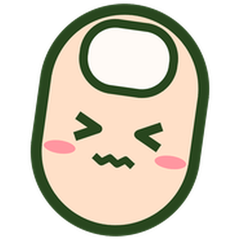
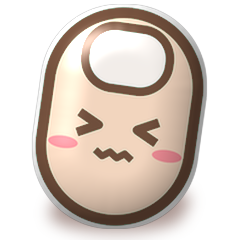
2026.11.11 3D 젤리 디자인 (키캡·팻핑이·테마·앱 화면)
Claude-Session: https://claude.ai/code/session_01GvSCgEXELCVfxACkb9NKF6

diff --git a/Shared/KBTheme.swift b/Shared/KBTheme.swift
@@ -26,6 +26,7 @@ struct KBTheme {
     var short: String? = nil          // 테마 메뉴에 보일 짧은 이름
     var spaceIcon: String? = nil      // 스페이스바 팻핑이 (밤 모자 등)
     var sprinkle: String? = nil       // 키 모서리 곳곳의 작은 잎 (그림 이름 앞부분)
+    var jelly: Bool = true            // 3D 젤리 키캡 (위가 밝은 윗면 + 두께 + 반짝임)
 
     var menuName: String { short ?? name }
 
@@ -36,74 +37,75 @@ struct KBTheme {
         UIColor { $0.userInterfaceStyle == .dark ? dark : light }
     }
 
-    /// 기본 테마는 폰의 다크모드를 따라감
+    /// 1. 크림 젤리 (기본) — 말랑한 크림색 키캡, 복숭아 포인트. 폰이 다크모드면 그레이 젤리
     static let standard = KBTheme(
-        id: "default", name: "기본",
-        bg: dyn(c(209, 213, 219), UIColor(white: 0.12, alpha: 1)),
-        key: dyn(.white, UIColor(white: 0.42, alpha: 1)),
-        special: dyn(c(171, 178, 189), UIColor(white: 0.27, alpha: 1)),
-        pressKey: dyn(c(171, 178, 189), UIColor(white: 0.27, alpha: 1)),
-        pressSpecial: dyn(.white, UIColor(white: 0.42, alpha: 1)),
-        text: .label, specialText: .label,
-        shadow: true)
+        id: "default", name: "크림 젤리",
+        bg: dyn(c(246, 232, 218), c(26, 26, 30)),
+        key: dyn(c(255, 250, 242), c(92, 92, 100)),
+        special: dyn(c(255, 204, 182), c(62, 62, 70)),
+        pressKey: dyn(c(244, 234, 220), c(72, 72, 80)),
+        pressSpecial: dyn(c(246, 184, 160), c(84, 84, 92)),
+        text: dyn(c(112, 78, 60), .white), specialText: dyn(c(156, 72, 50), .white),
+        side: dyn(c(226, 202, 180), c(52, 52, 58)), sideSpecial: dyn(c(228, 152, 124), c(36, 36, 42)),
+        accent: c(255, 138, 108), depth: 4, radius: 10)
 
     static let all: [KBTheme] = [
         standard,
-        KBTheme(id: "oled", name: "OLED 매트 블랙",
-                bg: .black, key: c(26, 26, 28), special: c(14, 14, 16),
-                pressKey: c(52, 52, 56), pressSpecial: c(40, 40, 44),
-                text: c(214, 214, 210), specialText: c(150, 150, 146),
-                rim: c(38, 38, 42), radius: 7, short: "OLED 블랙"),
-        KBTheme(id: "mint", name: "레트로 민트 & 크림",
-                bg: c(38, 92, 88), key: c(244, 238, 222), special: c(120, 196, 184),
-                pressKey: c(226, 218, 198), pressSpecial: c(104, 180, 168),
-                text: c(40, 64, 60), specialText: c(24, 60, 56),
-                side: c(190, 180, 156), sideSpecial: c(76, 150, 138), accent: c(238, 98, 74),
-                depth: 5, radius: 5, short: "민트 & 크림"),
-        KBTheme(id: "navy", name: "레트로 네이비 & 오렌지",
-                bg: c(28, 38, 64), key: c(236, 232, 222), special: c(64, 82, 124),
-                pressKey: c(216, 210, 196), pressSpecial: c(54, 70, 108),
-                text: c(30, 40, 66), specialText: c(236, 232, 222),
-                side: c(178, 172, 158), sideSpecial: c(40, 54, 90), accent: c(240, 128, 40),
-                depth: 5, radius: 5, short: "네이비 & 오렌지"),
-        KBTheme(id: "lime", name: "레트로 연두 & 그레이",
-                bg: c(70, 76, 72), key: c(238, 240, 232), special: c(170, 214, 96),
-                pressKey: c(220, 224, 212), pressSpecial: c(152, 196, 80),
-                text: c(48, 58, 44), specialText: c(40, 70, 30),
-                side: c(182, 186, 174), sideSpecial: c(120, 166, 60), accent: c(40, 70, 30),
-                depth: 5, radius: 5, short: "연두 & 그레이"),
-        KBTheme(id: "lavender", name: "레트로 파스텔 라벤더",
-                bg: c(186, 176, 214), key: c(250, 246, 252), special: c(232, 196, 214),
-                pressKey: c(232, 226, 238), pressSpecial: c(216, 178, 198),
-                text: c(84, 72, 110), specialText: c(110, 60, 88),
-                side: c(206, 196, 222), sideSpecial: c(206, 160, 184), accent: c(150, 120, 200),
-                depth: 5, radius: 5, short: "파스텔 라벤더"),
+        KBTheme(id: "oled", name: "블랙 젤리",
+                bg: .black, key: c(40, 40, 46), special: c(26, 26, 30),
+                pressKey: c(62, 62, 68), pressSpecial: c(46, 46, 52),
+                text: c(226, 226, 222), specialText: c(160, 160, 156),
+                side: c(18, 18, 22), sideSpecial: c(10, 10, 12), depth: 4, radius: 10),
+        KBTheme(id: "mint", name: "민트 소다",
+                bg: c(150, 226, 212), key: c(238, 252, 248), special: c(96, 206, 186),
+                pressKey: c(214, 242, 236), pressSpecial: c(80, 190, 170),
+                text: c(30, 96, 86), specialText: .white,
+                side: c(150, 208, 196), sideSpecial: c(46, 150, 132), accent: c(40, 168, 148),
+                depth: 4, radius: 10),
+        KBTheme(id: "peach", name: "피치 코랄",
+                bg: c(255, 214, 200), key: c(255, 245, 239), special: c(255, 150, 128),
+                pressKey: c(252, 226, 216), pressSpecial: c(240, 130, 110),
+                text: c(186, 80, 64), specialText: .white,
+                side: c(236, 182, 166), sideSpecial: c(214, 96, 80), accent: c(246, 104, 84),
+                depth: 4, radius: 10),
+        KBTheme(id: "lime", name: "라임 젤리",
+                bg: c(214, 236, 190), key: c(249, 252, 241), special: c(176, 220, 110),
+                pressKey: c(232, 242, 218), pressSpecial: c(156, 204, 90),
+                text: c(60, 90, 40), specialText: c(40, 70, 24),
+                side: c(196, 214, 168), sideSpecial: c(116, 166, 56), accent: c(110, 172, 52),
+                depth: 4, radius: 10),
+        KBTheme(id: "lavender", name: "라벤더 젤리",
+                bg: c(222, 212, 246), key: c(252, 248, 255), special: c(184, 160, 240),
+                pressKey: c(238, 230, 252), pressSpecial: c(168, 142, 228),
+                text: c(96, 72, 156), specialText: .white,
+                side: c(204, 190, 236), sideSpecial: c(128, 100, 204), accent: c(150, 112, 232),
+                depth: 4, radius: 10),
         KBTheme(id: "coral", name: "가을 코랄",
                 bg: c(250, 160, 130), key: c(255, 251, 247), special: c(238, 104, 80),
                 pressKey: c(255, 234, 224), pressSpecial: c(214, 88, 66),
                 text: c(196, 64, 52), specialText: .white,
-                accent: c(218, 52, 52), radius: 11, shadow: true,
+                accent: c(218, 52, 52), depth: 4, radius: 11,
                 bgImage: "bg_coral", enterIcon: "enter_chestnut", sticker: "sticker_chestnut",
                 gloss: true, shadowColor: c(200, 80, 60), sprinkle: "sprinkle_maple_"),
         KBTheme(id: "yellow", name: "가을 옐로우",
                 bg: c(252, 204, 80), key: c(255, 253, 244), special: c(246, 166, 40),
                 pressKey: c(255, 240, 200), pressSpecial: c(226, 146, 30),
                 text: c(170, 100, 20), specialText: .white,
-                accent: c(232, 92, 40), radius: 11, shadow: true,
+                accent: c(232, 92, 40), depth: 4, radius: 11,
                 bgImage: "bg_yellow", enterIcon: "enter_chestnut", sticker: "sticker_chestnut",
                 gloss: true, shadowColor: c(200, 140, 30), sprinkle: "sprinkle_ginkgo_"),
         KBTheme(id: "winter", name: "겨울 눈사람",
                 bg: c(170, 200, 240), key: c(252, 254, 255), special: c(196, 218, 248),
                 pressKey: c(226, 238, 252), pressSpecial: c(176, 202, 240),
                 text: c(70, 110, 180), specialText: c(50, 90, 160),
-                accent: c(120, 160, 230), radius: 12, shadow: true,
+                accent: c(120, 160, 230), depth: 4, radius: 12,
                 bgImage: "bg_winter", enterIcon: "enter_snowman", sticker: "sticker_snow",
                 gloss: true, shadowColor: c(100, 140, 200)),
         KBTheme(id: "red", name: "겨울 레드",
                 bg: c(118, 14, 24), key: c(255, 250, 242), special: c(214, 52, 58),
                 pressKey: c(240, 226, 214), pressSpecial: c(190, 40, 48),
                 text: c(30, 112, 64), specialText: c(255, 246, 236),
-                accent: c(34, 112, 66), radius: 12, shadow: true,
+                accent: c(34, 112, 66), depth: 4, radius: 12,
                 bgImage: "bg_red", enterIcon: "enter_snowman_red", sticker: "sticker_holly",
                 gloss: true, shadowColor: c(40, 0, 0)),
     ]

diff --git a/Keyboard/KeyboardView.swift b/Keyboard/KeyboardView.swift
@@ -8,6 +8,10 @@ final class KeyCap: UIView {
     let hint = UILabel()
     let icon = UIImageView()
     let gloss = UIView()
+    /// 젤리 윗면 그라데이션 (위가 밝게)
+    private let grad = CAGradientLayer()
+    /// 젤리 반짝임 (위에서 아래로 사라짐)
+    private let glossGrad = CAGradientLayer()
     /// 계절 스티커 (키 모서리에 살짝 걸침, 누르는 영역과 무관)
     let sticker = UIImageView()
     var stickerPos: CGPoint? = nil { didSet { setNeedsLayout() } }
@@ -32,6 +36,11 @@ final class KeyCap: UIView {
         face.layer.shadowOffset = CGSize(width: 0, height: 1)
         face.layer.shadowRadius = 0
         addSubview(face)
+        grad.startPoint = CGPoint(x: 0.5, y: 0)
+        grad.endPoint = CGPoint(x: 0.5, y: 1)
+        face.layer.insertSublayer(grad, at: 0)
+        glossGrad.startPoint = CGPoint(x: 0.5, y: 0)
+        glossGrad.endPoint = CGPoint(x: 0.5, y: 1)
         gloss.isUserInteractionEnabled = false
         gloss.backgroundColor = UIColor(white: 1, alpha: 0.35)
         gloss.isHidden = true
@@ -58,11 +67,24 @@ final class KeyCap: UIView {
 
     static let patPad: CGFloat = 8
 
+    static func mix(_ a: UIColor, _ b: UIColor, _ f: CGFloat) -> UIColor {
+        var r1: CGFloat = 0, g1: CGFloat = 0, b1: CGFloat = 0, a1: CGFloat = 0
+        var r2: CGFloat = 0, g2: CGFloat = 0, b2: CGFloat = 0, a2: CGFloat = 0
+        a.getRed(&r1, green: &g1, blue: &b1, alpha: &a1)
+        b.getRed(&r2, green: &g2, blue: &b2, alpha: &a2)
+        return UIColor(red: r1 + (r2 - r1) * f, green: g1 + (g2 - g1) * f, blue: b1 + (b2 - b1) * f, alpha: 1)
+    }
+
     static func image(_ name: String) -> UIImage? {
         UIImage(named: name, in: Bundle(for: KeyCap.self), compatibleWith: nil)
     }
 
     required init?(coder: NSCoder) { fatalError("init(coder:) has not been implemented") }
+
+    override func traitCollectionDidChange(_ previous: UITraitCollection?) {
+        super.traitCollectionDidChange(previous)
+        refreshColor()
+    }
 
     override func layoutSubviews() {
         super.layoutSubviews()
@@ -70,18 +92,31 @@ final class KeyCap: UIView {
         let d = theme.depth
         if d > 0 {
             f.size.height -= d
-            if isDown { f.origin.y += d * 0.6 }
+            if isDown { f.origin.y += d * (theme.jelly ? 0.75 : 0.6) }
         }
         face.frame = f
         face.layer.cornerRadius = theme.radius
         layer.cornerRadius = theme.radius
+        CATransaction.begin(); CATransaction.setDisableActions(true)
+        grad.frame = face.bounds
+        grad.cornerRadius = theme.radius
+        CATransaction.commit()
+        if theme.jelly {
+            layer.shadowPath = UIBezierPath(roundedRect: bounds.offsetBy(dx: 0, dy: 1.6).insetBy(dx: 0.5, dy: 0), cornerRadius: theme.radius).cgPath
+        }
         label.frame = face.bounds.insetBy(dx: 2, dy: 0)
         hint.frame = CGRect(x: 5, y: 2, width: 20, height: 13)
         let s = face.bounds.height * iconScale
         let ix = iconRight ? face.bounds.maxX - KeyCap.patPad - s : face.bounds.midX - s / 2
         icon.frame = CGRect(x: ix, y: face.bounds.midY - s / 2, width: s, height: s)
         let fb = face.bounds
-        gloss.frame = CGRect(x: fb.width * 0.12, y: fb.height * 0.08, width: fb.width * 0.76, height: fb.height * 0.22)
+        gloss.frame = theme.jelly
+            ? CGRect(x: fb.width * 0.12, y: fb.height * 0.06, width: fb.width * 0.76, height: fb.height * 0.28)
+            : CGRect(x: fb.width * 0.12, y: fb.height * 0.08, width: fb.width * 0.76, height: fb.height * 0.22)
+        CATransaction.begin(); CATransaction.setDisableActions(true)
+        glossGrad.frame = gloss.bounds
+        glossGrad.cornerRadius = min(theme.radius * 0.6, gloss.bounds.height / 2)
+        CATransaction.commit()
         gloss.layer.cornerRadius = min(theme.radius * 0.7, gloss.frame.height / 2)
         if let p = stickerPos {
             let ss: CGFloat = 15
@@ -113,7 +148,31 @@ final class KeyCap: UIView {
         face.layer.shadowColor = (t.shadowColor ?? .black).cgColor
         face.layer.shadowRadius = t.shadowColor == nil ? 0 : 2.5
         face.layer.shadowOffset = CGSize(width: 0, height: t.shadowColor == nil ? 1 : 2.5)
-        gloss.isHidden = !t.gloss || isDown
+        gloss.isHidden = !(t.gloss || t.jelly) || isDown
+        gloss.backgroundColor = t.jelly ? .clear : UIColor(white: 1, alpha: 0.35)
+        if t.jelly {
+            // 3D 젤리: 아랫단은 윗면보다 진하게, 윗면은 위가 밝은 그라데이션, 바닥에 은은한 그림자
+            let top = (face.backgroundColor ?? t.key).resolvedColor(with: traitCollection)
+            let fallbackSide = KeyCap.mix(top, .black, (isSpecial || isAccent) ? 0.22 : 0.16)
+            backgroundColor = ((isSpecial || isAccent) ? (isAccent ? KeyCap.mix(top, .black, 0.22) : (t.sideSpecial ?? fallbackSide)) : (t.side ?? fallbackSide)).resolvedColor(with: traitCollection)
+            CATransaction.begin(); CATransaction.setDisableActions(true)
+            grad.isHidden = false
+            var br: CGFloat = 0, bgc: CGFloat = 0, bb: CGFloat = 0, ba: CGFloat = 0
+            t.bg.resolvedColor(with: traitCollection).getRed(&br, green: &bgc, blue: &bb, alpha: &ba)
+            let ga: CGFloat = (br + bgc + bb) * 255 < 120 ? 0.16 : 0.6
+            if glossGrad.superlayer == nil { gloss.layer.addSublayer(glossGrad) }
+            glossGrad.colors = [UIColor(white: 1, alpha: ga).cgColor, UIColor(white: 1, alpha: 0).cgColor]
+            grad.colors = [KeyCap.mix(top, .white, isDown ? 0.10 : 0.42).cgColor, top.cgColor]
+            CATransaction.commit()
+            face.layer.shadowOpacity = 0
+            layer.shadowColor = KeyCap.mix(backgroundColor ?? .black, .black, 0.66).cgColor
+            layer.shadowOpacity = 0.4
+            layer.shadowRadius = 1.2
+            layer.shadowOffset = .zero
+        } else {
+            grad.isHidden = true
+            layer.shadowOpacity = 0
+        }
         label.textColor = isAccent ? UIColor(white: 1, alpha: 0.98) : (isSpecial ? t.specialText : t.text)
         hint.textColor = label.textColor.withAlphaComponent(0.6)
     }

diff --git a/App/FingerErrorApp.swift b/App/FingerErrorApp.swift
@@ -57,6 +57,7 @@ struct ContentView: View {
                                     .resizable()
                                     .scaledToFit()
                                     .clipShape(RoundedRectangle(cornerRadius: 10))
+                                    .shadow(color: .black.opacity(0.12), radius: 0, x: 0, y: 4)
                                     .overlay(
                                         RoundedRectangle(cornerRadius: 10)
                                             .stroke(themeId == t.id ? Color.green : Color.clear, lineWidth: 3)
@@ -81,9 +82,13 @@ struct ContentView: View {
                 }
             }
             .safeAreaInset(edge: .bottom) {
-                Text("버전 2026.11.10-2 (타자 중 커서 떨림 수정) · 100개마다 리포트 · 한/A 영어 · 테마별 팻핑이 · 기념일").font(.caption2).foregroundStyle(.secondary).padding(4)
+                Text("버전 2026.11.11 (3D 젤리 디자인) · 100개마다 리포트 · 한/A 영어 · 테마별 팻핑이 · 기념일").font(.caption2).foregroundStyle(.secondary).padding(4)
             }
             .navigationTitle("핑거에러")
+            // 3D 젤리: 크림 배경 + 복숭아 포인트
+            .scrollContentBackground(.hidden)
+            .background(Color(UIColor { $0.userInterfaceStyle == .dark ? UIColor(white: 0.08, alpha: 1) : UIColor(red: 250/255, green: 242/255, blue: 234/255, alpha: 1) }))
+            .tint(Color(red: 1, green: 0.54, blue: 0.42))
         }
     }
 }

diff --git a/Keyboard/Anniversary.swift b/Keyboard/Anniversary.swift
@@ -16,8 +16,8 @@ enum Anniversary {
     private static let countCopy: [String: (String, String)] = [
         "default": ("{t}! 오타 {n}개 기념일", "팻핑이랑 같이 고쳤어요"),
         "oled": ("{t}. 오타 {n}개", "조용히, 확실하게 고쳤어요"),
-        "mint": ("{t}~ 오타 {n}개", "레트로하게 고쳐드렸어요"),
-        "navy": ("{t}! 오타 {n}개 홈런", "팻핑이가 다 받아냈어요"),
+        "mint": ("{t}~ 오타 {n}개", "톡 쏘게 고쳐드렸어요"),
+        "peach": ("{t}! 오타 {n}개 말랑하게", "복숭아처럼 폭신하게 고쳤어요"),
         "lime": ("{t}! 오타 {n}개", "새싹처럼 쑥쑥 맞춰지는 중"),
         "lavender": ("{t}♡ 오타 {n}개", "향기롭게 고쳐줬어요"),
         "coral": ("{t}! 밤 {n}톨 모았다", "오타 {n}개 고쳤어요"),
